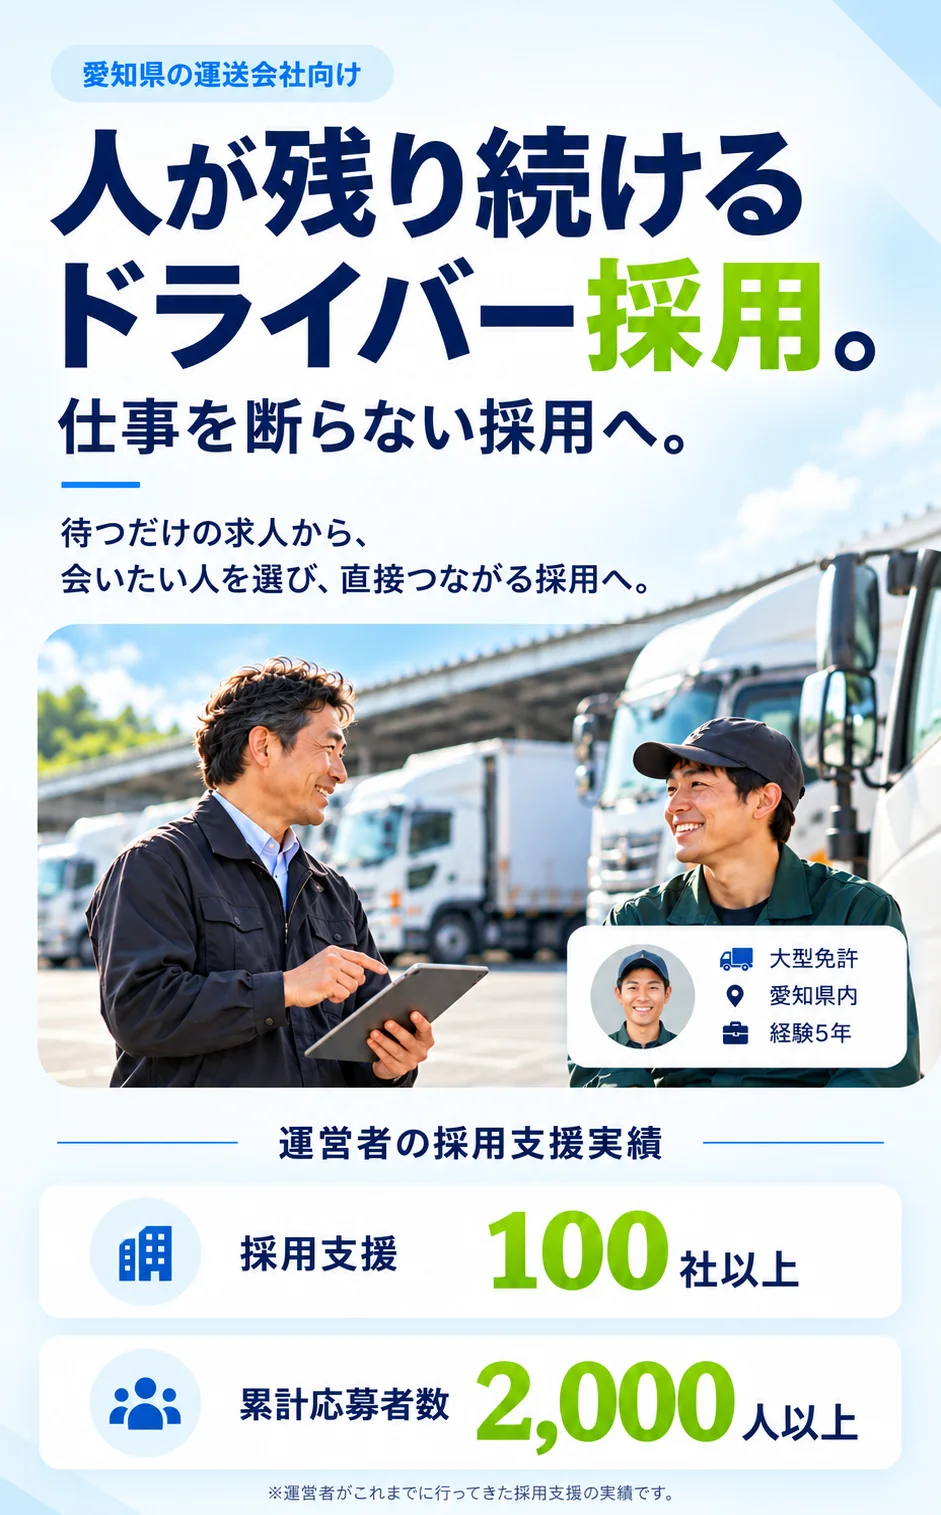
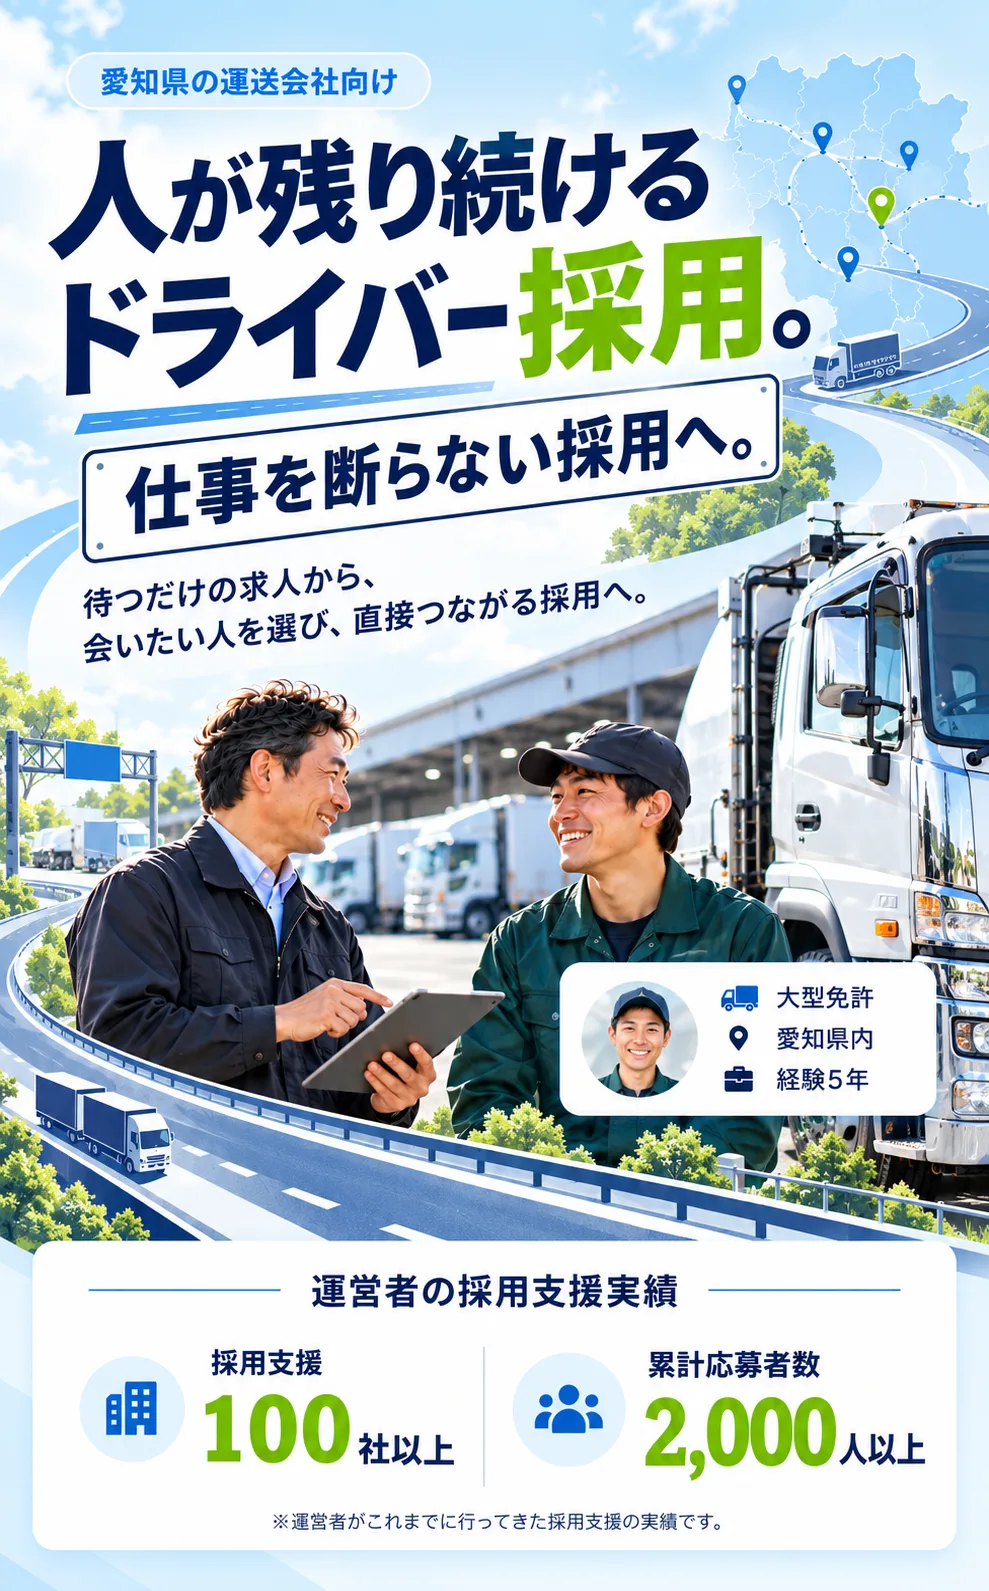
ドラテク企業向けLP（scout）：スマホのFVを新画像に差し替え

diff --git a/components/driver-scout/Sections.tsx b/components/driver-scout/Sections.tsx
@@ -139,7 +139,7 @@ export function Hero() {
         人が残り続けるドライバー採用。仕事を断らない採用へ。愛知県の運送会社さま向け{SERVICE_KIND}。
       </h1>
       <picture>
-        <source media="(max-width: 767px)" srcSet="/images/driver/scout/fv-sp.webp" width={941} height={1515} />
+        <source media="(max-width: 767px)" srcSet="/images/driver/scout/fv-sp.webp" width={989} height={1591} />
         <img
           className="ds-hero__img"
           src="/images/driver/scout/fv-pc.webp"
